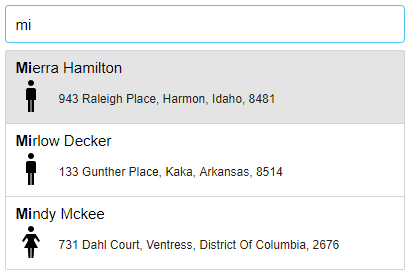
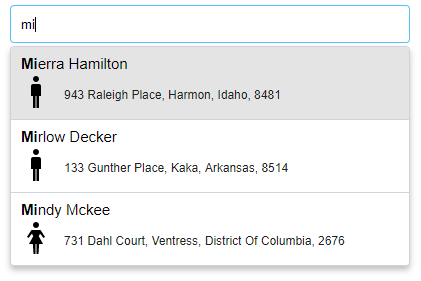
a small change that improves the look

Changed region(s): [[0.0, 0.0, 0.9903, 0.9819], [0.1456, 0.5776, 0.699, 0.6354], [0.1456, 0.3177, 0.6699, 0.3755]]

diff --git a/sources/js/modules/Autosuggest.scss b/sources/js/modules/Autosuggest.scss
@@ -1,6 +1,7 @@
 $color-white: #fff;
 $color-gray: #e4e4e4;
 $color-border-active: #ced4da;
+$color-blue: #008cff;
 $color-black: #000;
 $color-error: #ff0000;
 $color-spinner: #ccc;
@@ -26,8 +27,8 @@ $color-spinner: #ccc;
   height: 15px;
   margin-top: -15px;
   border-radius: 50%;
-  border: 2px solid $color-spinner;
-  border-top-color: $color-black;
+  border: 2px solid $color-blue;
+  border-top-color: $color-gray;
   animation: spinner .6s linear infinite;
 }
 
@@ -47,7 +48,8 @@ $color-spinner: #ccc;
     list-style: none;
     margin-bottom: 0;
     border: 1px solid $color-border-active;
-    border-radius: 2px;
+    border-radius: 4px;
+    overflow: hidden;
 
     li {
       cursor: pointer;
@@ -78,14 +80,17 @@ $color-spinner: #ccc;
       display: block;
       position: absolute;
       width: 100%;
-      margin-top: -8px;
+      margin-top: -12px;
       z-index: 1;
+      border-radius: 4px;
+      box-shadow: 0 4px 6px 0 rgba(32, 33, 36, 0.28);
     }
 
   }
 
   .active-list {
     background-color: $color-gray;
+    transition: background-color 0.2s ease-out;
   }
 }
 
